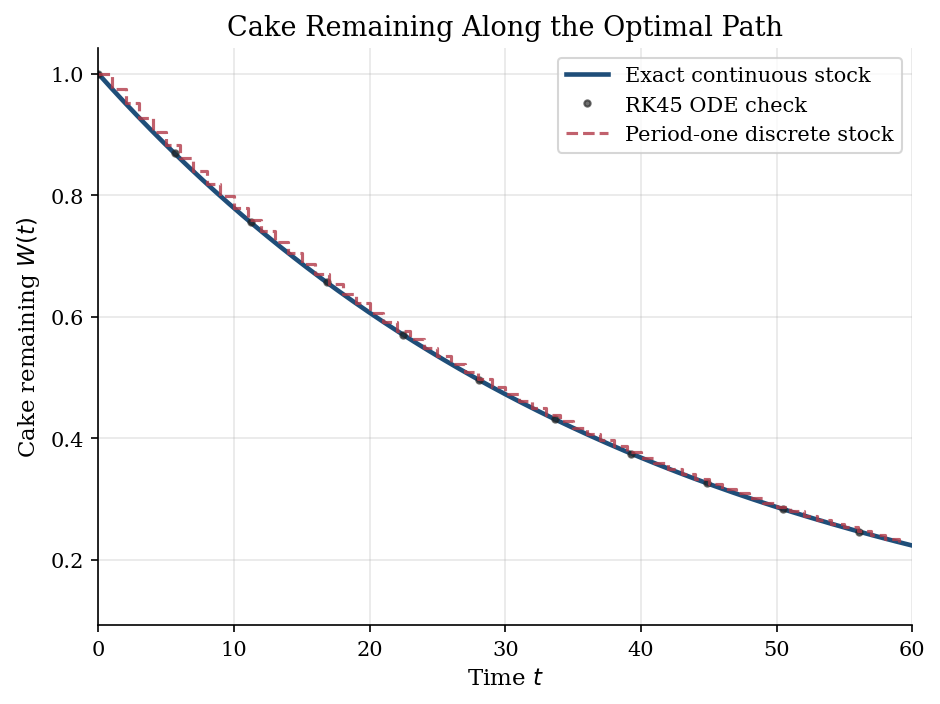
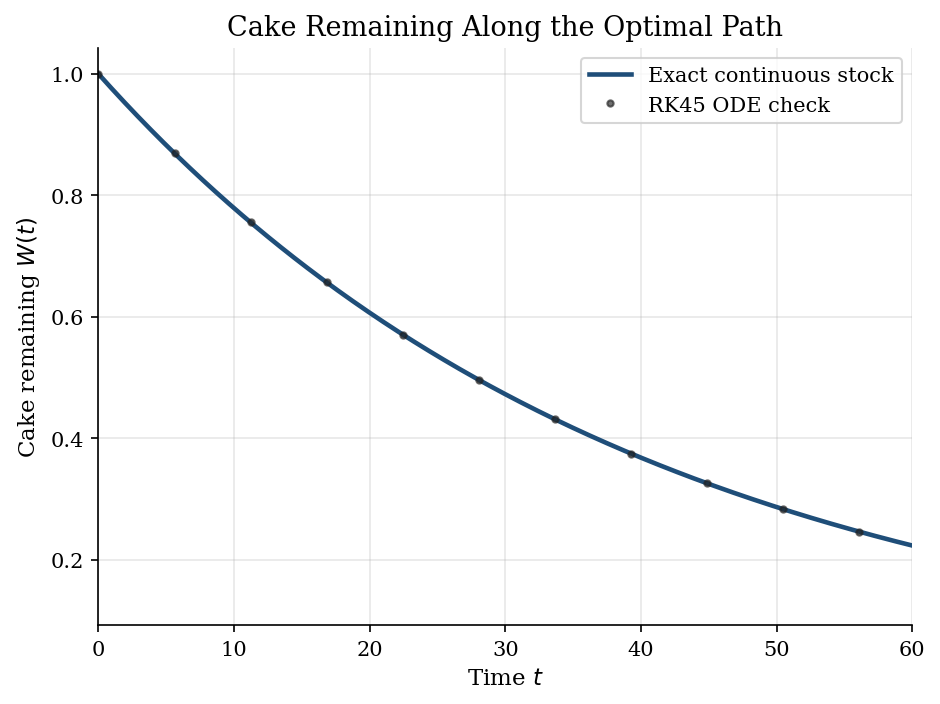
Cut continuous cake eating tutorial

diff --git a/optimal-control/continuous-cake-eating/run.py b/optimal-control/continuous-cake-eating/run.py
@@ -32,9 +32,6 @@ def main():
     T = 80.0          # Horizon used only for plotting and numerical checks
     n_eval = 500      # Number of evaluation points
 
-    # Discrete-time counterpart parameters
-    beta = np.exp(-rho)  # Equivalent discrete discount factor
-
     # =========================================================================
     # Exact continuous-time solution
     # =========================================================================
@@ -86,22 +83,6 @@ def main():
     max_c_error = np.max(np.abs(c_numerical - c_analytical))
 
     # =========================================================================
-    # Discrete-time reference path
-    # =========================================================================
-    # The finite-period counterpart consumes a geometric sequence. It is useful
-    # context for readers coming from dynamic-programming/cake-eating.
-
-    gamma_discrete = beta ** (1.0 / sigma)  # consumption growth factor
-    c0_discrete = (1 - gamma_discrete) * W_0
-    T_discrete = 60
-    t_discrete = np.arange(T_discrete)
-    c_discrete = c0_discrete * gamma_discrete ** t_discrete
-    W_discrete = np.zeros(T_discrete)
-    W_discrete[0] = W_0
-    for t in range(1, T_discrete):
-        W_discrete[t] = W_discrete[t - 1] - c_discrete[t - 1]
-
-    # =========================================================================
     # Generate Report
     # =========================================================================
     setup_style()
@@ -114,24 +95,20 @@ def main():
     )
 
     report.add_overview(
-        "A planner begins with one fixed stock $W_0$, perhaps an inherited reserve of a "
-        "consumption good, and has to decide how quickly to draw it down. Eating more "
-        "today gives utility now, but it also leaves less for every future date. With "
-        "CRRA utility, the smoothing motive pushes the planner away from spending the "
-        "whole stock early.\n\n"
-        "In discrete time this allocation can be written as a Bellman equation, as in "
-        "[Finite-Resource Cake Eating](../../dynamic-programming/cake-eating/). Here the "
-        "same economic tradeoff is written in continuous time. Instead of searching over "
-        "a grid of next-period stocks, we use Pontryagin's maximum principle to price the "
-        "remaining resource and recover the consumption path $c(t)$ directly. The costate "
-        "variable is the shadow value of one more unit left for the future."
+        "A planner owns a fixed stock $W_0$ of a consumption good. Consuming more today "
+        "leaves less for every future date.\n\n"
+        "The object is a continuous-time consumption path $c(t)$ and remaining stock "
+        "$W(t)$. CRRA utility rewards smoothing, so the path should decline gradually.\n\n"
+        "The computation turns an infinite-horizon control problem into paths that can "
+        "be evaluated and checked. Pontryagin's maximum principle supplies the costate "
+        "equation and the shadow price."
     )
 
     report.add_equations(
         r"""
-For $\sigma \neq 1$, flow utility is
+For $\sigma > 0$ and $\sigma \neq 1$, flow utility is
 $$u(c)=\frac{c^{1-\sigma}}{1-\sigma}, \qquad u'(c)=c^{-\sigma},$$
-with the log case obtained as $\sigma \to 1$. The continuous-time problem is
+and the planner solves
 $$\max_{\{c(t)\}_{t\geq 0}} \int_0^\infty e^{-\rho t} u(c(t)) \, dt$$
 
 subject to
@@ -140,12 +117,12 @@ $$\dot{W}(t)=-c(t), \qquad W(0)=W_0, \qquad c(t)\geq 0, \qquad W(t)\geq 0.$$
 The present-value Hamiltonian is
 $$\mathcal{H}(c,W,\lambda,t)=e^{-\rho t}u(c)-\lambda c.$$
 
-The first-order and costate equations are
+The first-order condition and costate equation are
 $$e^{-\rho t}c(t)^{-\sigma}=\lambda(t), \qquad
 \dot{\lambda}(t)=-\frac{\partial \mathcal{H}}{\partial W}=0.$$
 
-Since $\lambda(t)$ is constant in present value, differentiating the first-order
-condition gives the Euler equation
+Because $W$ has no direct payoff, the present-value costate is constant.
+Differentiating the first-order condition gives
 $$\frac{\dot c(t)}{c(t)}=-\frac{\rho}{\sigma}.$$
 
 The no-waste condition $\int_0^\infty c(t)\,dt=W_0$ pins down the initial
@@ -155,8 +132,8 @@ W(t)=W_0 e^{-\rho t/\sigma}.$$
 
 The current-value shadow price is
 $$\mu(t)=e^{\rho t}\lambda=c(t)^{-\sigma},$$
-so $\dot{\mu}(t)/\mu(t)=\rho$. Scarcity grows in current-value terms even though
-the present-value costate is flat.
+so $\dot{\mu}(t)/\mu(t)=\rho$. Current-value scarcity rises even though the
+present-value costate is flat.
 """
     )
 
@@ -166,17 +143,15 @@ the present-value costate is flat.
         f"| $\\rho$    | {rho} | Continuous discount rate |\n"
         f"| $\\sigma$  | {sigma} | Relative risk aversion; IES $=1/\\sigma$ |\n"
         f"| $W_0$     | {W_0} | Initial resource stock |\n"
-        f"| $\\beta = e^{{-\\rho}}$ | {beta:.4f} | Period-one discount factor for the discrete reference path |\n"
         f"| $T$       | {T} | Plotting horizon; the economic problem has an infinite horizon |\n"
         f"| Evaluation points | {n_eval} | Time points for exact paths and ODE checks |"
     )
 
     report.add_solution_method(
-        "Pontryagin's principle attaches a price to one extra unit of the resource "
-        "stock. At each instant, the planner equates discounted marginal utility from "
-        "current consumption with that shadow price. Since $W$ has no direct payoff, "
-        "the present-value price does not drift. Discounting and preference curvature "
-        "then determine how quickly consumption falls.\n\n"
+        "Pontryagin's principle attaches a price to one extra unit of stock. The "
+        "planner equates discounted marginal utility with that price at each instant. "
+        "Because $W$ has no direct payoff, the present-value price does not drift. "
+        "Discounting and curvature then set the decline in consumption.\n\n"
         "```text\n"
         "Inputs: rho, sigma, W0, evaluation grid {t_m}\n"
         "1. Write the present-value Hamiltonian H = exp(-rho t) u(c) - lambda c.\n"
@@ -187,12 +162,8 @@ the present-value costate is flat.
         "6. Evaluate c(t), W(t), and mu(t) = c(t)^(-sigma) on {t_m}.\n"
         "Output: consumption, remaining stock, and shadow-price paths.\n"
         "```\n\n"
-        "The numerical work evaluates those analytical paths and checks them by ODE "
-        "integration. The ODE check integrates $\\dot{W}=-c$ and "
-        "$\\dot{c}=-(\\rho/\\sigma)c$ from the implied initial consumption rate, then "
-        "compares the result with the closed-form path. The period-one discrete path "
-        "gives a nearby benchmark for the dynamic-programming version of the same "
-        "allocation problem.\n\n"
+        "The numerical check integrates two ODEs from the implied initial consumption "
+        "rate. It then compares the ODE solution with the closed-form path.\n\n"
         f"**Verification:** Max absolute error in $W(t)$: {max_W_error:.2e}, "
         f"in $c(t)$: {max_c_error:.2e}."
     )
@@ -204,9 +175,6 @@ the present-value costate is flat.
              label="Exact continuous path")
     ax1.plot(t_eval[mark_every], c_numerical[mark_every], "o", color="#222222",
              markersize=3, alpha=0.65, label="RK45 ODE check")
-    ax1.step(t_discrete, c_discrete, color="#b23a48", linestyle="--",
-             linewidth=1.5, alpha=0.8, where="post",
-             label="Period-one discrete path")
     ax1.set_xlabel("Time $t$")
     ax1.set_ylabel("Consumption rate $c(t)$")
     ax1.set_title("Smooth Depletion of a Fixed Resource")
@@ -214,13 +182,12 @@ the present-value costate is flat.
     ax1.set_xlim(0, 60)
     report.add_figure(
         "figures/consumption-path.png",
-        "Continuous consumption path with ODE and discrete-time comparisons",
+        "Continuous consumption path with ODE check",
         fig1,
         description="Consumption starts at $(\\rho/\\sigma)W_0$ and falls at the "
-        "constant proportional rate $\\rho/\\sigma$. The ODE markers sit on the closed-form "
-        "path, so the costate calculation and the differential equation give the same "
-        "allocation. The stepped line is the period-one discrete allocation from the "
-        "related finite-resource dynamic-programming problem."
+        "constant proportional rate $\\rho/\\sigma$.\n\n"
+        "The ODE markers sit on the closed-form path. The costate equations and ODE "
+        "system imply the same allocation."
     )
 
     # --- Figure 2: Cake Remaining ---
@@ -229,9 +196,6 @@ the present-value costate is flat.
              label="Exact continuous stock")
     ax2.plot(t_eval[mark_every], W_numerical[mark_every], "o", color="#222222",
              markersize=3, alpha=0.65, label="RK45 ODE check")
-    ax2.step(t_discrete, W_discrete, color="#b23a48", linestyle="--",
-             linewidth=1.5, alpha=0.8, where="post",
-             label="Period-one discrete stock")
     ax2.set_xlabel("Time $t$")
     ax2.set_ylabel("Cake remaining $W(t)$")
     ax2.set_title("Cake Remaining Along the Optimal Path")
@@ -239,11 +203,11 @@ the present-value costate is flat.
     ax2.set_xlim(0, 60)
     report.add_figure(
         "figures/cake-remaining.png",
-        "Exact cake stock with ODE and discrete-time comparisons",
+        "Exact cake stock with ODE check",
         fig2,
         description="The stock is depleted only asymptotically. With CRRA utility and an "
-        "infinite horizon, the planner keeps a tail of future consumption alive because "
-        "marginal utility becomes large as consumption approaches zero."
+        "infinite horizon, the planner preserves future consumption because marginal "
+        "utility rises near zero."
     )
 
     # --- Figure 3: Shadow Price ---
@@ -265,9 +229,8 @@ the present-value costate is flat.
         "Present-value and current-value shadow prices for the resource stock",
         fig3,
         description="The present-value costate is flat because the resource stock has no "
-        "direct payoff term. In current-value units the shadow price rises at rate "
-        "$\\rho$: one unit left for a later date is scarce in utility terms "
-        "even though its discounted value is equalized along the optimum."
+        "direct payoff term. The current-value shadow price rises at rate $\\rho$. "
+        "Later consumption is scarce in utility terms."
     )
 
     # --- Table ---
@@ -287,19 +250,16 @@ the present-value costate is flat.
         "tables/comparison.csv",
         "Selected Checks Against the Continuous-Time Path",
         df,
-        description="The exact solution is a benchmark for the numerical ODE path. "
-        "The small errors below come from ODE solver tolerances rather than a grid over "
-        "choices."
+        description="The exact solution benchmarks the ODE path. The errors come from "
+        "solver tolerances."
     )
 
     report.add_takeaway(
-        "The costate is the intertemporal price of the remaining resource. In this "
-        "problem the present-value price is constant, so optimality requires a declining "
-        "consumption path that keeps discounted marginal utility equal across dates.\n\n"
-        "Higher impatience raises the depletion rate, while higher risk aversion slows it "
-        "through the smoothing motive. The continuous-time formulation also clarifies the "
-        "object behind the discrete cake-eating Bellman problem: a smooth shadow-price "
-        "condition linking current consumption to all future scarcity."
+        "The costate is the intertemporal price of the remaining resource. Here the "
+        "present-value price is constant. Optimal consumption declines at rate "
+        "$\\rho/\\sigma$ and keeps discounted marginal utility equal across dates.\n\n"
+        "Higher impatience raises the depletion rate. Higher risk aversion slows it "
+        "through the smoothing motive."
     )
 
     report.add_references([

diff --git a/optimal-control/continuous-cake-eating/README.md b/optimal-control/continuous-cake-eating/README.md
@@ -4,15 +4,17 @@
 
 ## Overview
 
-A planner begins with one fixed stock $W_0$, perhaps an inherited reserve of a consumption good, and has to decide how quickly to draw it down. Eating more today gives utility now, but it also leaves less for every future date. With CRRA utility, the smoothing motive pushes the planner away from spending the whole stock early.
+A planner owns a fixed stock $W_0$ of a consumption good. Consuming more today leaves less for every future date.
 
-In discrete time this allocation can be written as a Bellman equation, as in [Finite-Resource Cake Eating](../../dynamic-programming/cake-eating/). Here the same economic tradeoff is written in continuous time. Instead of searching over a grid of next-period stocks, we use Pontryagin's maximum principle to price the remaining resource and recover the consumption path $c(t)$ directly. The costate variable is the shadow value of one more unit left for the future.
+The object is a continuous-time consumption path $c(t)$ and remaining stock $W(t)$. CRRA utility rewards smoothing, so the path should decline gradually.
+
+The computation turns an infinite-horizon control problem into paths that can be evaluated and checked. Pontryagin's maximum principle supplies the costate equation and the shadow price.
 
 ## Equations
 
-For $\sigma \neq 1$, flow utility is
+For $\sigma > 0$ and $\sigma \neq 1$, flow utility is
 $$u(c)=\frac{c^{1-\sigma}}{1-\sigma}, \qquad u'(c)=c^{-\sigma},$$
-with the log case obtained as $\sigma \to 1$. The continuous-time problem is
+and the planner solves
 $$\max_{\{c(t)\}_{t\geq 0}} \int_0^\infty e^{-\rho t} u(c(t)) \, dt$$
 
 subject to
@@ -21,12 +23,12 @@ $$\dot{W}(t)=-c(t), \qquad W(0)=W_0, \qquad c(t)\geq 0, \qquad W(t)\geq 0.$$
 The present-value Hamiltonian is
 $$\mathcal{H}(c,W,\lambda,t)=e^{-\rho t}u(c)-\lambda c.$$
 
-The first-order and costate equations are
+The first-order condition and costate equation are
 $$e^{-\rho t}c(t)^{-\sigma}=\lambda(t), \qquad
 \dot{\lambda}(t)=-\frac{\partial \mathcal{H}}{\partial W}=0.$$
 
-Since $\lambda(t)$ is constant in present value, differentiating the first-order
-condition gives the Euler equation
+Because $W$ has no direct payoff, the present-value costate is constant.
+Differentiating the first-order condition gives
 $$\frac{\dot c(t)}{c(t)}=-\frac{\rho}{\sigma}.$$
 
 The no-waste condition $\int_0^\infty c(t)\,dt=W_0$ pins down the initial
@@ -36,8 +38,8 @@ W(t)=W_0 e^{-\rho t/\sigma}.$$
 
 The current-value shadow price is
 $$\mu(t)=e^{\rho t}\lambda=c(t)^{-\sigma},$$
-so $\dot{\mu}(t)/\mu(t)=\rho$. Scarcity grows in current-value terms even though
-the present-value costate is flat.
+so $\dot{\mu}(t)/\mu(t)=\rho$. Current-value scarcity rises even though the
+present-value costate is flat.
 
 ## Model Setup
 
@@ -46,13 +48,12 @@ the present-value costate is flat.
 | $\rho$    | 0.05 | Continuous discount rate |
 | $\sigma$  | 2.0 | Relative risk aversion; IES $=1/\sigma$ |
 | $W_0$     | 1.0 | Initial resource stock |
-| $\beta = e^{-\rho}$ | 0.9512 | Period-one discount factor for the discrete reference path |
 | $T$       | 80.0 | Plotting horizon; the economic problem has an infinite horizon |
 | Evaluation points | 500 | Time points for exact paths and ODE checks |
 
 ## Solution Method
 
-Pontryagin's principle attaches a price to one extra unit of the resource stock. At each instant, the planner equates discounted marginal utility from current consumption with that shadow price. Since $W$ has no direct payoff, the present-value price does not drift. Discounting and preference curvature then determine how quickly consumption falls.
+Pontryagin's principle attaches a price to one extra unit of stock. The planner equates discounted marginal utility with that price at each instant. Because $W$ has no direct payoff, the present-value price does not drift. Discounting and curvature then set the decline in consumption.
 
 ```text
 Inputs: rho, sigma, W0, evaluation grid {t_m}
@@ -65,25 +66,27 @@ Inputs: rho, sigma, W0, evaluation grid {t_m}
 Output: consumption, remaining stock, and shadow-price paths.
 ```
 
-The numerical work evaluates those analytical paths and checks them by ODE integration. The ODE check integrates $\dot{W}=-c$ and $\dot{c}=-(\rho/\sigma)c$ from the implied initial consumption rate, then compares the result with the closed-form path. The period-one discrete path gives a nearby benchmark for the dynamic-programming version of the same allocation problem.
+The numerical check integrates two ODEs from the implied initial consumption rate. It then compares the ODE solution with the closed-form path.
 
 **Verification:** Max absolute error in $W(t)$: 2.64e-11, in $c(t)$: 6.61e-13.
 
 ## Results
 
-Consumption starts at $(\rho/\sigma)W_0$ and falls at the constant proportional rate $\rho/\sigma$. The ODE markers sit on the closed-form path, so the costate calculation and the differential equation give the same allocation. The stepped line is the period-one discrete allocation from the related finite-resource dynamic-programming problem.
+Consumption starts at $(\rho/\sigma)W_0$ and falls at the constant proportional rate $\rho/\sigma$.
 
-<img src="figures/consumption-path.png" alt="Continuous consumption path with ODE and discrete-time comparisons" width="80%">
+The ODE markers sit on the closed-form path. The costate equations and ODE system imply the same allocation.
 
-The stock is depleted only asymptotically. With CRRA utility and an infinite horizon, the planner keeps a tail of future consumption alive because marginal utility becomes large as consumption approaches zero.
+<img src="figures/consumption-path.png" alt="Continuous consumption path with ODE check" width="80%">
 
-<img src="figures/cake-remaining.png" alt="Exact cake stock with ODE and discrete-time comparisons" width="80%">
+The stock is depleted only asymptotically. With CRRA utility and an infinite horizon, the planner preserves future consumption because marginal utility rises near zero.
 
-The present-value costate is flat because the resource stock has no direct payoff term. In current-value units the shadow price rises at rate $\rho$: one unit left for a later date is scarce in utility terms even though its discounted value is equalized along the optimum.
+<img src="figures/cake-remaining.png" alt="Exact cake stock with ODE check" width="80%">
+
+The present-value costate is flat because the resource stock has no direct payoff term. The current-value shadow price rises at rate $\rho$. Later consumption is scarce in utility terms.
 
 <img src="figures/shadow-price.png" alt="Present-value and current-value shadow prices for the resource stock" width="80%">
 
-The exact solution is a benchmark for the numerical ODE path. The small errors below come from ODE solver tolerances rather than a grid over choices.
+The exact solution benchmarks the ODE path. The errors come from solver tolerances.
 
 **Selected Checks Against the Continuous-Time Path**
 
@@ -98,9 +101,9 @@ The exact solution is a benchmark for the numerical ODE path. The small errors b
 
 ## Takeaway
 
-The costate is the intertemporal price of the remaining resource. In this problem the present-value price is constant, so optimality requires a declining consumption path that keeps discounted marginal utility equal across dates.
+The costate is the intertemporal price of the remaining resource. Here the present-value price is constant. Optimal consumption declines at rate $\rho/\sigma$ and keeps discounted marginal utility equal across dates.
 
-Higher impatience raises the depletion rate, while higher risk aversion slows it through the smoothing motive. The continuous-time formulation also clarifies the object behind the discrete cake-eating Bellman problem: a smooth shadow-price condition linking current consumption to all future scarcity.
+Higher impatience raises the depletion rate. Higher risk aversion slows it through the smoothing motive.
 
 ## References
 

diff --git a/README.md b/README.md
@@ -84,7 +84,7 @@ These examples cover HJB equations, phase diagrams, shooting, and shadow prices.
 | [<img src="optimal-control/hjb-growth/figures/thumb.png" width="160">](optimal-control/hjb-growth/figures/value-function.png) | **[Ramsey Capital Accumulation by HJB Upwinding](optimal-control/hjb-growth/)** | Follow Ramsey capital accumulation toward its steady state. An upwind HJB links the shadow value of capital to consumption and drift. |
 | [<img src="optimal-control/phase-diagrams/figures/thumb.png" width="160">](optimal-control/phase-diagrams/figures/phase-diagram.png) | **[Ramsey Consumption Choice and Saddle Paths](optimal-control/phase-diagrams/)** | Study initial consumption in Ramsey growth. The phase diagram and backward stable-arm integration select the path that reaches the saddle steady state. |
 | [<img src="optimal-control/ramsey-growth/figures/thumb.png" width="160">](optimal-control/ramsey-growth/figures/phase-diagram.png) | **[Ramsey Saving by Saddle-Path Shooting](optimal-control/ramsey-growth/)** | A Ramsey planner chooses initial consumption with inherited capital. Shooting adjusts the jump variable until the path reaches the saddle steady state. |
-| [<img src="optimal-control/continuous-cake-eating/figures/thumb.png" width="160">](optimal-control/continuous-cake-eating/figures/consumption-path.png) | **[Fixed-Resource Consumption and Pontryagin Shadow Prices](optimal-control/continuous-cake-eating/)** | Study how a planner spreads a fixed resource over an infinite horizon. Pontryagin's costate equation prices the remaining stock and gives the smooth depletion path. |
+| [<img src="optimal-control/continuous-cake-eating/figures/thumb.png" width="160">](optimal-control/continuous-cake-eating/figures/consumption-path.png) | **[Fixed-Resource Consumption and Pontryagin Shadow Prices](optimal-control/continuous-cake-eating/)** | A planner allocates a fixed resource over continuous time. Pontryagin's costate equation prices remaining stock and pins down the depletion path. |
 
 ## Industrial Organization
 
